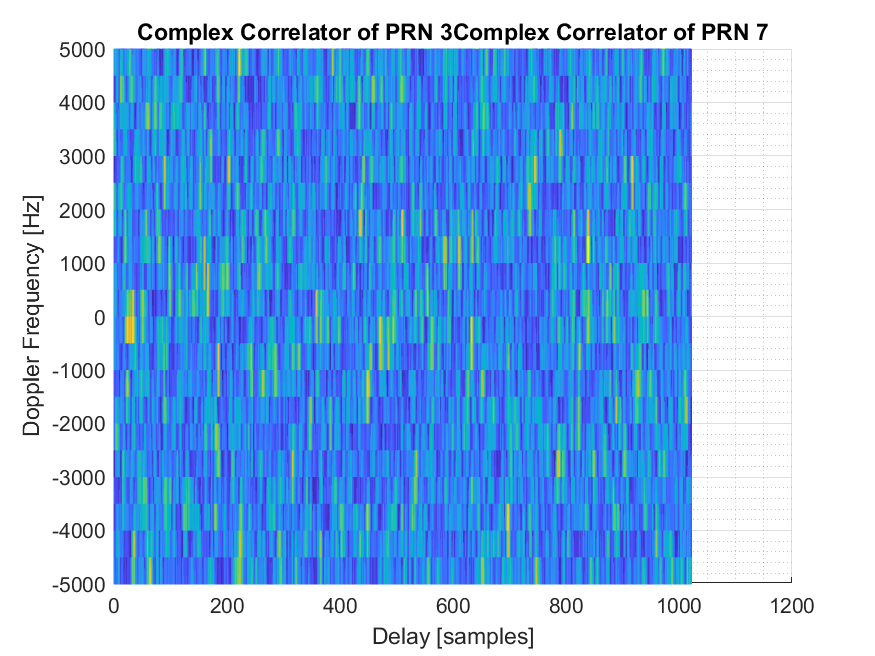
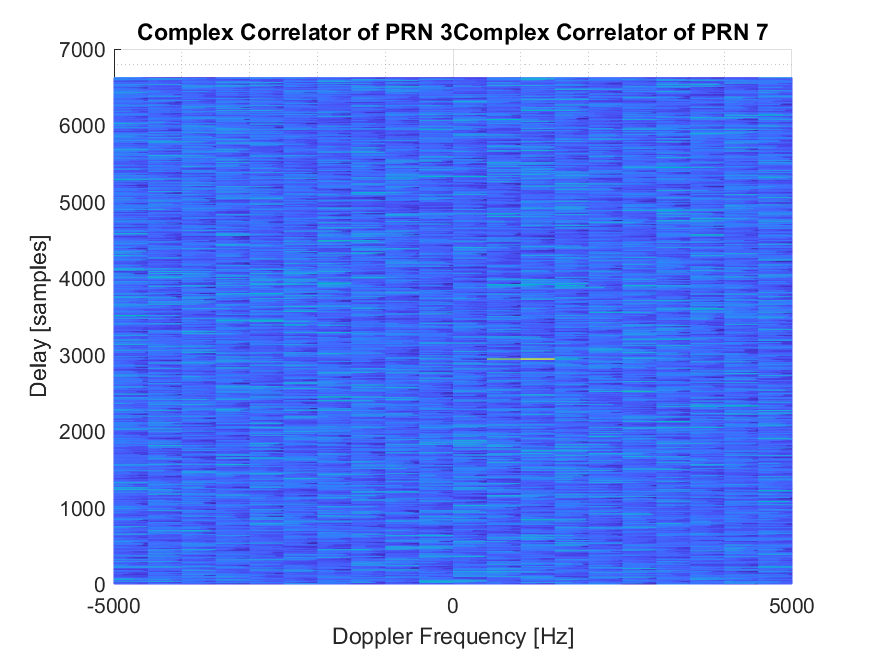
Frustrated.

diff --git a/ASEN5090_HW9_script.m b/ASEN5090_HW9_script.m
@@ -108,7 +108,7 @@ fprintf('DOP = %0.0f kHz  DELAY = %0.0f samples  S = %0.4f+%0.4fi \n',fD,tau,rea
 plot = true;
 
 % Compute and display a 3D mesh
-complex_correlator([3,7],data,t_vec,fIF,plot);
+complex_correlator([3,7],data,t_vec,plot);
 
 
 
@@ -128,7 +128,10 @@ end % s = 1:size(gps_ephem,1)
 % Problem 5 - Increase the integration time
 %==========================================================================
 
-function [delay, doppler] = complex_correlator(PRN,data,t_vec,fIF,plot)
+function [delay, doppler, S_max] = complex_correlator(PRN,data,t_vec,plot)
+
+fn = 6.625e6;
+fIF = -60e3;
 
 % Create a vector of PRN2 C/A code values
 CA = generate_CA_code(PRN);
@@ -147,7 +150,7 @@ for n = 1:length(t_vec)
 end
 
 
-delay_vec = 0:1022;
+delay_vec = 0:length(t_vec);
 
 int_time = 2; % ms
 dstep = 1000/int_time;
@@ -169,15 +172,24 @@ for i = 1:length(delay_vec)
     end % j = 1:length(doppler_vec)
 end % i = 1:length(delay_vec)
 
+[vec_max,idx] = max(S);
+[S_max,doppler_idx] = max(vec_max);
+delay_idx = idx(doppler_idx);
+
+delay = delay_vec(delay_idx);
+doppler = doppler_vec(doppler_idx);
+
+peak_doppler = S(:,doppler_idx);
+peak_delay = S(delay_idx,:);
 
 if plot == true
     % Plot 3D mesh
     fig = figure; hold on; grid on; grid minor;
     title(sprintf('Complex Correlator of PRN %0.0f',PRN));
-    xlabel('Delay [samples]');
-    ylabel('Doppler Frequency [Hz]');
+    ylabel('Delay [samples]');
+    xlabel('Doppler Frequency [Hz]');
     zlabel('Magnitude');
-    mesh(delay_vec,doppler_vec,S');
+    mesh(doppler_vec,delay_vec,S);
     saveas(fig,sprintf('ASEN5090_HW9_PRN%0.0f_CC.png',PRN),'png');
     
     % Plot Peak Doppler Bin
@@ -185,7 +197,7 @@ if plot == true
     title(sprintf('Peak Doppler Bin of PRN %0.0f',PRN));
     xlabel('Delay [samples]');
     ylabel('Complex Correlator Magnitude');
-    
+    plot(delay_vec',peak_doppler);
     saveas(fig,sprintf('ASEN5090_HW9_PRN%0.0f_PeakDoppler.png',PRN),'png');
     
     % Plot Peak Delay Bin
@@ -193,7 +205,7 @@ if plot == true
     title(sprintf('Peak Delay Bin of PRN %0.0f',PRN));
     xlabel('Doppler [Hz]');
     ylabel('Complex Correlator Magnitude');
-    
+    plot(doppler_vec',peak_delay);
     saveas(fig,sprintf('ASEN5090_HW9_PRN%0.0f_PeakDelay.png',PRN),'png');
     
 end
